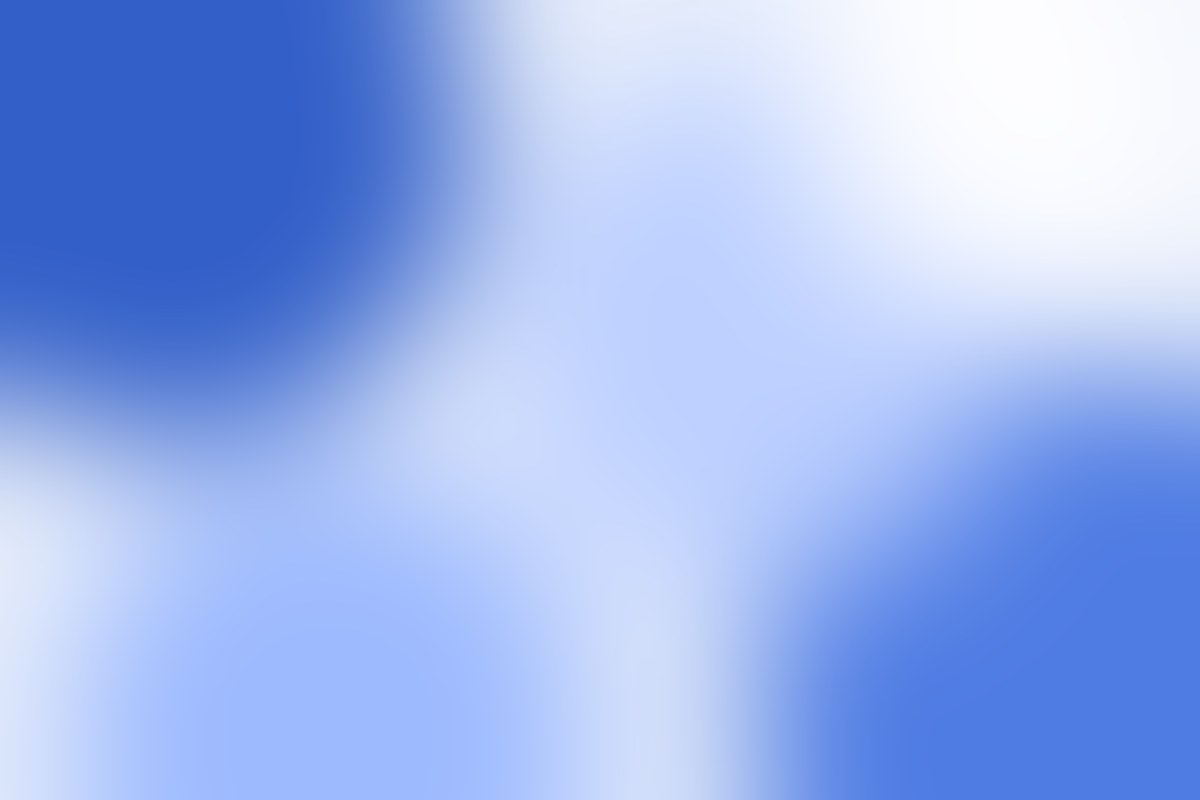
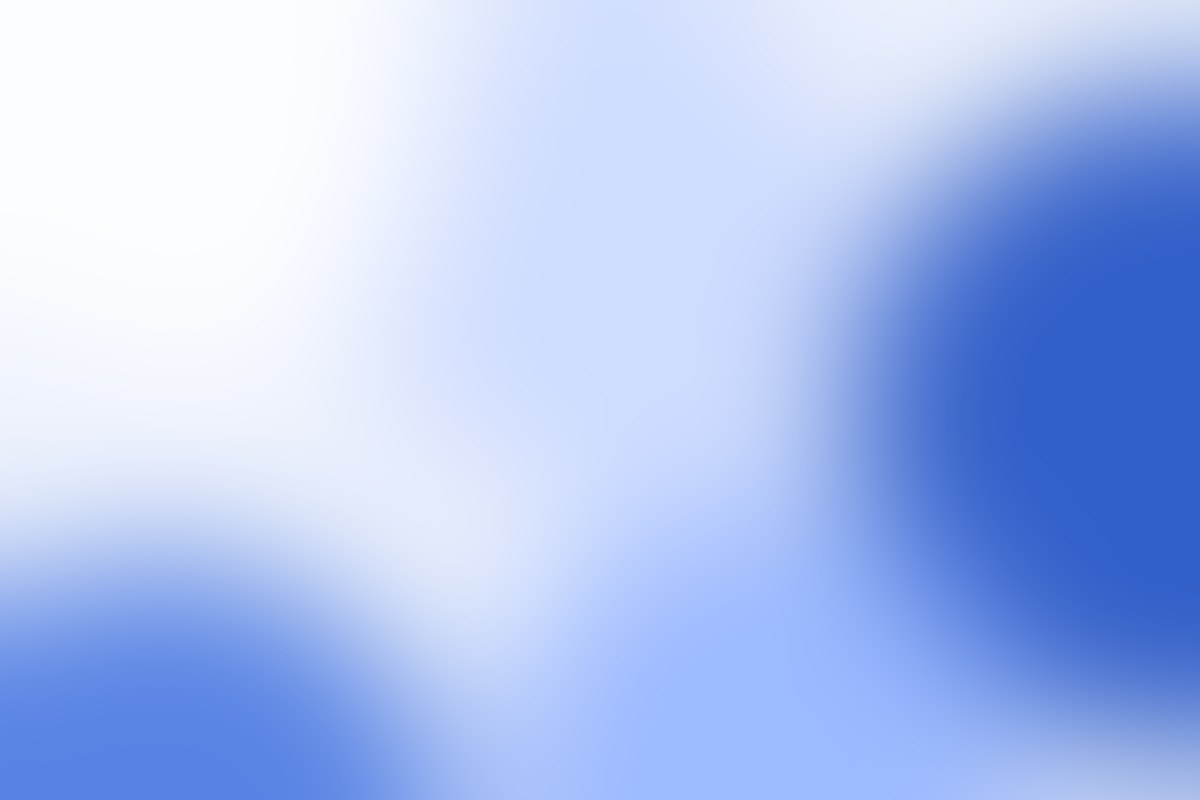
Droppo 0.7: glass everywhere, calmer backdrop behind titles, fixes from real Windows screenshots
Claude-Session: https://claude.ai/code/session_01PdRTW97SFS7WQsCJ56rLy8

diff --git a/src/Droppo/Theme/Combo.xaml b/src/Droppo/Theme/Combo.xaml
@@ -39,6 +39,7 @@
         <Setter Property="FocusVisualStyle" Value="{x:Null}" />
         <Setter Property="SnapsToDevicePixels" Value="True" />
         <Setter Property="MaxDropDownHeight" Value="360" />
+        <Setter Property="MinHeight" Value="32" />
         <Setter Property="ScrollViewer.CanContentScroll" Value="True" />
         <Setter Property="ItemsPanel">
             <Setter.Value>

diff --git a/src/Droppo/Shell/SettingsWindow.cs b/src/Droppo/Shell/SettingsWindow.cs
@@ -102,7 +102,7 @@ internal sealed class SettingsWindow : GlassWindow
         look.Children.Add(_glass);
         _motion.Margin = new Thickness(0, 8, 0, 0);
         look.Children.Add(_motion);
-        look.Children.Add(Note("Glass needs Windows 11 and \"Transparency effects\" on. Changes show on windows opened after saving."));
+        look.Children.Add(Note("Turn glass off for plain white windows. It also follows Windows' \"Transparency effects\" setting. Changes show on windows opened after saving."));
         Section(panel, "Look and feel", look);
 
         // ---- helper programs ----

diff --git a/src/Droppo/Shell/Studio/StudioWindow.cs b/src/Droppo/Shell/Studio/StudioWindow.cs
@@ -161,6 +161,7 @@ internal sealed class StudioWindow : GlassWindow
         // ---- editor (hidden until a page is opened) ----
         _editor = new PageEditor(this, context, _work) { Visibility = Visibility.Collapsed };
         _editor.Closed += CloseEditor;
+        _status.Text = ""; // the editor sets its own hint while being built; the pages view starts with its own
 
         // ---- busy overlay ----
         _busy = new Border

diff --git a/README.md b/README.md
@@ -1,6 +1,6 @@
 ![Droppo](brand/droppo-banner.png)
 
-# Droppo (v0.6)
+# Droppo (v0.7)
 
 **Drop it. Done.** Droppo is a small Windows utility for everyday file jobs. Drag a file, hold **Shift**, and a wheel of actions pops up under your cursor. Release on a slice and the result lands next to the original (or in a folder you pick in Settings). Nothing is uploaded, nothing is overwritten.
 
